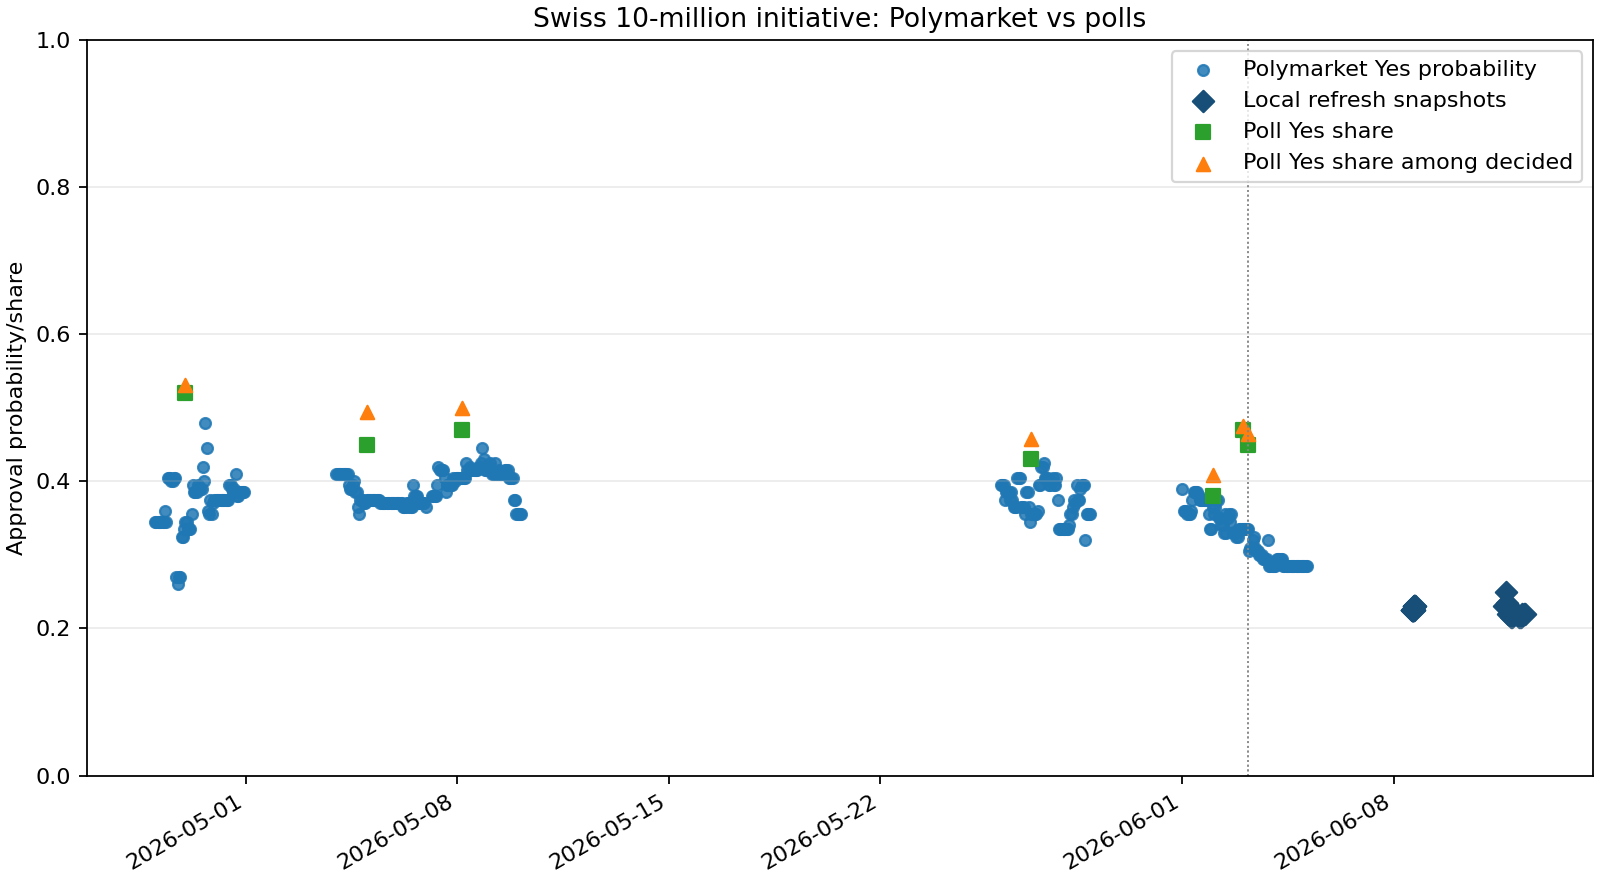
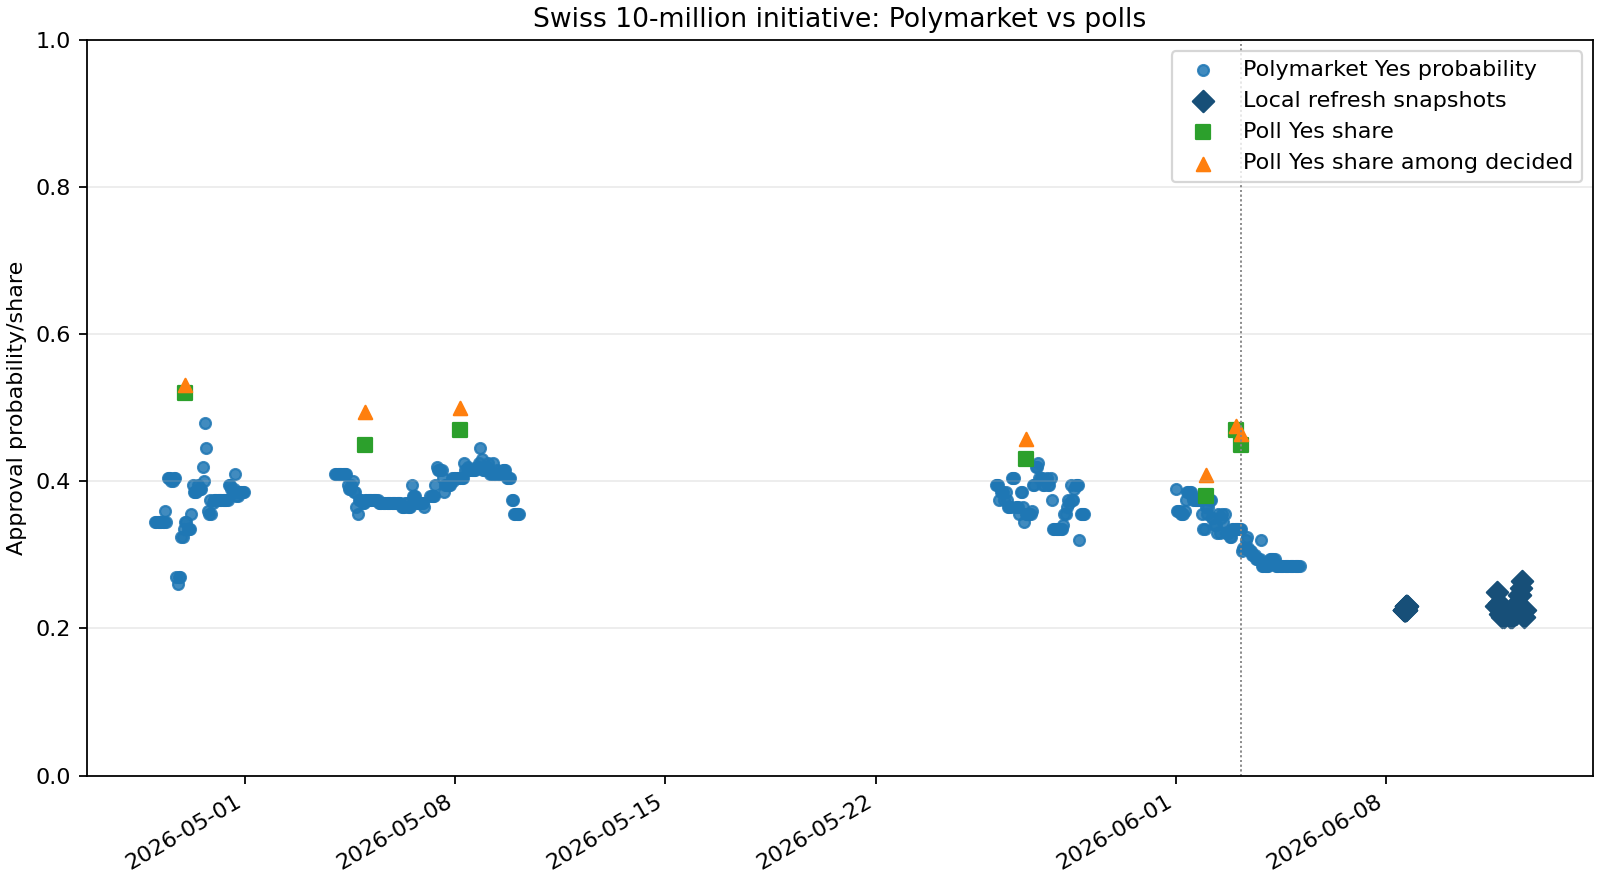
data: update swiss referendum running snapshots

diff --git a/data/results/swiss_referendum_10mio_dashboard.html b/data/results/swiss_referendum_10mio_dashboard.html
@@ -21,15 +21,15 @@
   <h1>Swiss 10-Million Referendum Efficiency View</h1>
   <p class="note">Read-only deterministic comparison. Poll shares are survey shares, not model-implied win probabilities. Divergence labels are descriptive and make no causal, trading, or profitability claim.</p>
   <section class="metrics">
-    <div class="metric">Snapshots<strong>35</strong></div>
+    <div class="metric">Snapshots<strong>42</strong></div>
     <div class="metric">Polls<strong>7</strong></div>
-    <div class="metric">Latest Polymarket Yes<strong>22.0%</strong></div>
+    <div class="metric">Latest Polymarket Yes<strong>22.5%</strong></div>
     <div class="metric">Latest poll comparison<strong>45.0% raw Yes, 46.4% decided Yes</strong></div>
-    <div class="metric">Raw Yes gap<strong>-23.0 pp</strong></div>
-    <div class="metric">Decided Yes gap<strong>-24.4 pp</strong></div>
+    <div class="metric">Raw Yes gap<strong>-22.5 pp</strong></div>
+    <div class="metric">Decided Yes gap<strong>-23.9 pp</strong></div>
     <div class="metric">Label<strong>polymarket_below_poll_yes_share</strong></div>
     <div class="metric">Poll proxy relation<strong>below_poll_proxy</strong></div>
-    <div class="metric compact">Latest local snapshot<strong>2026-06-12T08:04:16Z</strong></div>
+    <div class="metric compact">Latest local snapshot<strong>2026-06-12T15:04:18Z</strong></div>
     <div class="metric compact">Latest matched poll<strong>srg_gfs_bern_2026_w2</strong></div>
     <div class="metric compact">Matched poll published<strong>2026-06-03T03:55:00Z</strong></div>
     <div class="metric compact">Refresh mode<strong>manual bounded refresh</strong></div>
@@ -44,14 +44,7 @@
   <h2>Comparison Rows</h2>
   <table>
     <thead><tr><th>Snapshot</th><th>Polymarket Yes</th><th>Poll</th><th>Poll Yes</th><th>Poll decided Yes</th><th>Raw gap</th><th>Decided gap</th><th>Label</th><th>Poll proxy relation</th></tr></thead>
-    <tbody><tr><td>2026-06-08T16:22:16Z</td><td>0.230</td><td>srg_gfs_bern_2026_w2</td><td>0.450</td><td>0.464</td><td>-0.220</td><td>-0.234</td><td>polymarket_below_poll_yes_share</td><td>below_poll_proxy</td></tr>
-<tr><td>2026-06-08T16:58:47Z</td><td>0.230</td><td>srg_gfs_bern_2026_w2</td><td>0.450</td><td>0.464</td><td>-0.220</td><td>-0.234</td><td>polymarket_below_poll_yes_share</td><td>below_poll_proxy</td></tr>
-<tr><td>2026-06-08T17:00:19Z</td><td>0.230</td><td>srg_gfs_bern_2026_w2</td><td>0.450</td><td>0.464</td><td>-0.220</td><td>-0.234</td><td>polymarket_below_poll_yes_share</td><td>below_poll_proxy</td></tr>
-<tr><td>2026-06-11T15:43:35Z</td><td>0.230</td><td>srg_gfs_bern_2026_w2</td><td>0.450</td><td>0.464</td><td>-0.220</td><td>-0.234</td><td>polymarket_below_poll_yes_share</td><td>below_poll_proxy</td></tr>
-<tr><td>2026-06-11T17:04:17Z</td><td>0.250</td><td>srg_gfs_bern_2026_w2</td><td>0.450</td><td>0.464</td><td>-0.200</td><td>-0.214</td><td>polymarket_below_poll_yes_share</td><td>below_poll_proxy</td></tr>
-<tr><td>2026-06-11T18:04:22Z</td><td>0.235</td><td>srg_gfs_bern_2026_w2</td><td>0.450</td><td>0.464</td><td>-0.215</td><td>-0.229</td><td>polymarket_below_poll_yes_share</td><td>below_poll_proxy</td></tr>
-<tr><td>2026-06-11T19:04:16Z</td><td>0.220</td><td>srg_gfs_bern_2026_w2</td><td>0.450</td><td>0.464</td><td>-0.230</td><td>-0.244</td><td>polymarket_below_poll_yes_share</td><td>below_poll_proxy</td></tr>
-<tr><td>2026-06-11T20:04:17Z</td><td>0.225</td><td>srg_gfs_bern_2026_w2</td><td>0.450</td><td>0.464</td><td>-0.225</td><td>-0.239</td><td>polymarket_below_poll_yes_share</td><td>below_poll_proxy</td></tr>
+    <tbody><tr><td>2026-06-11T20:04:17Z</td><td>0.225</td><td>srg_gfs_bern_2026_w2</td><td>0.450</td><td>0.464</td><td>-0.225</td><td>-0.239</td><td>polymarket_below_poll_yes_share</td><td>below_poll_proxy</td></tr>
 <tr><td>2026-06-11T21:04:18Z</td><td>0.215</td><td>srg_gfs_bern_2026_w2</td><td>0.450</td><td>0.464</td><td>-0.235</td><td>-0.249</td><td>polymarket_below_poll_yes_share</td><td>below_poll_proxy</td></tr>
 <tr><td>2026-06-11T22:04:21Z</td><td>0.215</td><td>srg_gfs_bern_2026_w2</td><td>0.450</td><td>0.464</td><td>-0.235</td><td>-0.249</td><td>polymarket_below_poll_yes_share</td><td>below_poll_proxy</td></tr>
 <tr><td>2026-06-11T23:04:19Z</td><td>0.220</td><td>srg_gfs_bern_2026_w2</td><td>0.450</td><td>0.464</td><td>-0.230</td><td>-0.244</td><td>polymarket_below_poll_yes_share</td><td>below_poll_proxy</td></tr>
@@ -63,15 +56,22 @@
 <tr><td>2026-06-12T05:04:16Z</td><td>0.215</td><td>srg_gfs_bern_2026_w2</td><td>0.450</td><td>0.464</td><td>-0.235</td><td>-0.249</td><td>polymarket_below_poll_yes_share</td><td>below_poll_proxy</td></tr>
 <tr><td>2026-06-12T06:04:17Z</td><td>0.220</td><td>srg_gfs_bern_2026_w2</td><td>0.450</td><td>0.464</td><td>-0.230</td><td>-0.244</td><td>polymarket_below_poll_yes_share</td><td>below_poll_proxy</td></tr>
 <tr><td>2026-06-12T07:04:17Z</td><td>0.220</td><td>srg_gfs_bern_2026_w2</td><td>0.450</td><td>0.464</td><td>-0.230</td><td>-0.244</td><td>polymarket_below_poll_yes_share</td><td>below_poll_proxy</td></tr>
-<tr><td>2026-06-12T08:04:16Z</td><td>0.220</td><td>srg_gfs_bern_2026_w2</td><td>0.450</td><td>0.464</td><td>-0.230</td><td>-0.244</td><td>polymarket_below_poll_yes_share</td><td>below_poll_proxy</td></tr></tbody>
+<tr><td>2026-06-12T08:04:16Z</td><td>0.220</td><td>srg_gfs_bern_2026_w2</td><td>0.450</td><td>0.464</td><td>-0.230</td><td>-0.244</td><td>polymarket_below_poll_yes_share</td><td>below_poll_proxy</td></tr>
+<tr><td>2026-06-12T09:04:18Z</td><td>0.235</td><td>srg_gfs_bern_2026_w2</td><td>0.450</td><td>0.464</td><td>-0.215</td><td>-0.229</td><td>polymarket_below_poll_yes_share</td><td>below_poll_proxy</td></tr>
+<tr><td>2026-06-12T10:04:17Z</td><td>0.245</td><td>srg_gfs_bern_2026_w2</td><td>0.450</td><td>0.464</td><td>-0.205</td><td>-0.219</td><td>polymarket_below_poll_yes_share</td><td>below_poll_proxy</td></tr>
+<tr><td>2026-06-12T11:04:18Z</td><td>0.245</td><td>srg_gfs_bern_2026_w2</td><td>0.450</td><td>0.464</td><td>-0.205</td><td>-0.219</td><td>polymarket_below_poll_yes_share</td><td>below_poll_proxy</td></tr>
+<tr><td>2026-06-12T12:04:17Z</td><td>0.255</td><td>srg_gfs_bern_2026_w2</td><td>0.450</td><td>0.464</td><td>-0.195</td><td>-0.209</td><td>polymarket_below_poll_yes_share</td><td>below_poll_proxy</td></tr>
+<tr><td>2026-06-12T13:04:17Z</td><td>0.265</td><td>srg_gfs_bern_2026_w2</td><td>0.450</td><td>0.464</td><td>-0.185</td><td>-0.199</td><td>polymarket_below_poll_yes_share</td><td>below_poll_proxy</td></tr>
+<tr><td>2026-06-12T14:04:19Z</td><td>0.215</td><td>srg_gfs_bern_2026_w2</td><td>0.450</td><td>0.464</td><td>-0.235</td><td>-0.249</td><td>polymarket_below_poll_yes_share</td><td>below_poll_proxy</td></tr>
+<tr><td>2026-06-12T15:04:18Z</td><td>0.225</td><td>srg_gfs_bern_2026_w2</td><td>0.450</td><td>0.464</td><td>-0.225</td><td>-0.239</td><td>polymarket_below_poll_yes_share</td><td>below_poll_proxy</td></tr></tbody>
   </table>
   <h2>Latest Poll-Source Comparison</h2>
   <p class="note">This table compares the latest local Polymarket snapshot with the newest prior poll from each curated poll source. It is a cross-source poll-proxy view, not a model average or mispricing test.</p>
   <table>
     <thead><tr><th>Source</th><th>Poll</th><th>Published</th><th>Polymarket Yes</th><th>Poll Yes</th><th>Poll decided Yes</th><th>Raw gap</th><th>Decided gap</th><th>Poll proxy relation</th></tr></thead>
-    <tbody><tr><td>SRG/gfs.bern</td><td>srg_gfs_bern_2026_w2</td><td>2026-06-03T03:55:00Z</td><td>0.220</td><td>0.450</td><td>0.464</td><td>-0.230</td><td>-0.244</td><td>below_poll_proxy</td></tr>
-<tr><td>Tamedia/20 Minuten/LeeWas</td><td>tamedia_leewas_2026_w2</td><td>2026-06-03T00:00:00Z</td><td>0.220</td><td>0.470</td><td>0.475</td><td>-0.250</td><td>-0.255</td><td>below_poll_proxy</td></tr>
-<tr><td>YouGov Schweiz</td><td>yougov_2026_w2_final</td><td>2026-06-02T00:00:00Z</td><td>0.220</td><td>0.380</td><td>0.409</td><td>-0.160</td><td>-0.189</td><td>below_poll_proxy</td></tr></tbody>
+    <tbody><tr><td>SRG/gfs.bern</td><td>srg_gfs_bern_2026_w2</td><td>2026-06-03T03:55:00Z</td><td>0.225</td><td>0.450</td><td>0.464</td><td>-0.225</td><td>-0.239</td><td>below_poll_proxy</td></tr>
+<tr><td>Tamedia/20 Minuten/LeeWas</td><td>tamedia_leewas_2026_w2</td><td>2026-06-03T00:00:00Z</td><td>0.225</td><td>0.470</td><td>0.475</td><td>-0.245</td><td>-0.250</td><td>below_poll_proxy</td></tr>
+<tr><td>YouGov Schweiz</td><td>yougov_2026_w2_final</td><td>2026-06-02T00:00:00Z</td><td>0.225</td><td>0.380</td><td>0.409</td><td>-0.155</td><td>-0.184</td><td>below_poll_proxy</td></tr></tbody>
   </table>
   <h2>Poll Release Impact Checks</h2>
   <p class="note">Impact rows require at least one local Polymarket observation before and after the poll publication time. Observations can come from bounded snapshots or bounded public CLOB price-history windows.</p>

diff --git a/data/results/swiss_referendum_10mio_latest_summary.md b/data/results/swiss_referendum_10mio_latest_summary.md
@@ -2,8 +2,8 @@
 
 ## Generated Or Inspected
 
-- Comparison rows: 35.
-- Polymarket snapshot rows: 35.
+- Comparison rows: 42.
+- Polymarket snapshot rows: 42.
 - Bounded price-history rows: 504.
 - Curated poll rows: 7 from SRG/gfs.bern, Tamedia/20 Minuten/LeeWas, YouGov Schweiz.
 - Poll-impact rows: 7 (observed_pre_post: 7).
@@ -25,9 +25,9 @@
 
 ## Latest Poll-Source Comparison
 
-- SRG/gfs.bern: srg_gfs_bern_2026_w2 published 2026-06-03T03:55:00Z; poll Yes 45.0%, decided Yes 46.4%, raw gap -23.0 pp, decided gap -24.4 pp; below_poll_proxy.
-- Tamedia/20 Minuten/LeeWas: tamedia_leewas_2026_w2 published 2026-06-03T00:00:00Z; poll Yes 47.0%, decided Yes 47.5%, raw gap -25.0 pp, decided gap -25.5 pp; below_poll_proxy.
-- YouGov Schweiz: yougov_2026_w2_final published 2026-06-02T00:00:00Z; poll Yes 38.0%, decided Yes 40.9%, raw gap -16.0 pp, decided gap -18.9 pp; below_poll_proxy.
+- SRG/gfs.bern: srg_gfs_bern_2026_w2 published 2026-06-03T03:55:00Z; poll Yes 45.0%, decided Yes 46.4%, raw gap -22.5 pp, decided gap -23.9 pp; below_poll_proxy.
+- Tamedia/20 Minuten/LeeWas: tamedia_leewas_2026_w2 published 2026-06-03T00:00:00Z; poll Yes 47.0%, decided Yes 47.5%, raw gap -24.5 pp, decided gap -25.0 pp; below_poll_proxy.
+- YouGov Schweiz: yougov_2026_w2_final published 2026-06-02T00:00:00Z; poll Yes 38.0%, decided Yes 40.9%, raw gap -15.5 pp, decided gap -18.4 pp; below_poll_proxy.
 
 ## Information Response Summary
 
@@ -42,13 +42,13 @@
 
 ## Key Numerical Result
 
-- Latest snapshot: 2026-06-12T08:04:16Z.
+- Latest snapshot: 2026-06-12T15:04:18Z.
 - Latest matched poll: srg_gfs_bern_2026_w2 (SRG/gfs.bern).
-- Polymarket Yes probability: 22.0%.
+- Polymarket Yes probability: 22.5%.
 - Latest poll Yes share: 45.0%.
 - Latest poll decided Yes share: 46.4%.
-- Raw Yes gap: -23.0 pp.
-- Decided Yes gap: -24.4 pp.
+- Raw Yes gap: -22.5 pp.
+- Decided Yes gap: -23.9 pp.
 - Poll-proxy relation: below_poll_proxy.
 
 ## Bounded Interpretation
